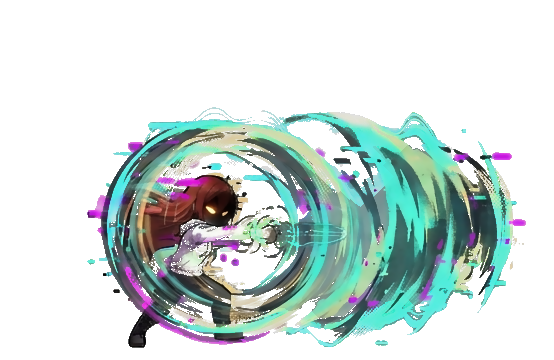
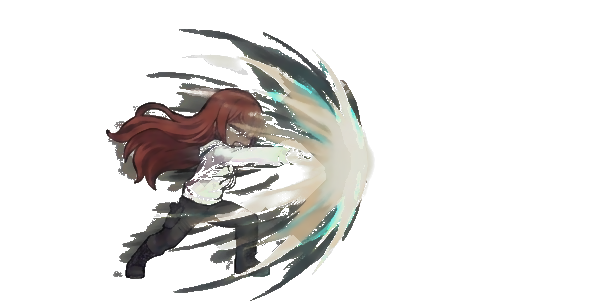
Remake the skill from the v7 sheet; slow it to 3.46s
The smoothest of the seven skill layouts, and measurably so. Taking the mean
pixel change between consecutive drawings, its average step is 82 against v6's
93, and only 2 of its 10 transitions are large where 4 of v6's 9 were. The
difference is where the drawings are spent: v6 crossed its whole vortex section
in a run of big jumps, while v7 spends four drawings climbing into the peak and
six coming down. Smoothness is the evenness of the step, not the count.

It is also the first skill sheet that needs no reordering — its effect runs
none, glitch, orb, vortex, peak, wake, trail, none, none straight down the
reading order, where the last three all had a bare pose sitting mid-effect.

3.46s, against v6's 2.17s. The skill had got shorter with every sheet — 5.45,
3.75, 2.67, 2.25, 2.17 — and had run past deliberate into hurried. The peak now
holds 0.58s on its own.

Grain filter swept as before: 10 takes 19% for no measurable loss of line work
(100.2%), 14 starts cutting into the drawing (94%). Verified on the built
frames — nothing touches the canvas edge, and the WebP is bit-exact.

Claude-Session: https://claude.ai/code/session_01XCAHaMPqESAQXvPvCfgGMQ

diff --git a/README.md b/README.md
@@ -18,7 +18,7 @@ sheet lands, at which point the same two commands rebuild them.
 | **spin combo** | `assets/dahlia_attack_a_sheet.png`, 12 drawings | `out/dahlia_attack_spin/` — 47 frames, 2.35 s |
 | **ranged attack** | `assets/dahlia_ranged_v4_sheet.png`, 12 drawings | `out/dahlia_ranged/` — 56 frames, 2.33 s |
 | **soul attack** | `assets/dahlia_soul_sheet.png`, 16 drawings | `out/dahlia_soul/` — 64 frames, 2.67 s |
-| **skill / special** | `assets/dahlia_skill_v6_sheet.png`, 10 drawings | `out/dahlia_skill/` — 52 frames, 2.17 s |
+| **skill / special** | `assets/dahlia_skill_v7_sheet.png`, 11 drawings | `out/dahlia_skill/` — 83 frames, 3.46 s |
 | **block** | `assets/dahlia_block_v2_sheet.png`, 8 drawings | `out/dahlia_block/` — 44 frames, 2.2 s |
 | **counter** | `assets/dahlia_counter_v2_sheet.png`, 10 drawings | `out/dahlia_counter/` — 67 frames, 3.35 s |
 | **evasion** | `assets/dahlia_dodge_v2_sheet.png`, 13 drawings | `out/dahlia_dodge/` — 56 frames, 2.8 s |
@@ -726,7 +726,7 @@ large: measuring Dahlia's own height in the finished frames,
 | `dahlia_block_v2_sheet.png` | 8 | 343 px |
 | `dahlia_attack_b_sheet.png` | 8 | 342 px |
 | … | | |
-| `dahlia_skill_v6_sheet.png` | 10 | 207 px |
+| `dahlia_skill_v7_sheet.png` | 11 | 209 px |
 | `dahlia_soul_sheet.png` | 16 | 167 px |
 | `dahlia_ragdoll_b_sheet.png` | 27 | 154 px |
 
@@ -741,8 +741,8 @@ smoother. Two things help. Exporting a dense sheet larger — a 25-pose sheet ne
 about 2.3× the width and height of an 8-pose one to hold the same detail. And
 drawing fewer poses on the same sheet, which is the same trade seen from the
 other side: the ranged animation went from 22 drawings to 12 and Dahlia grew
-from 169 px to 265, and the skill went 25 → 14 → 9 → 10 drawings while she
-went 157 → 175 → 209 → 207 px. Both read better for it, so the extra drawings were not
+from 169 px to 265, and the skill went 25 → 14 → 9 → 10 → 11 drawings while
+she went 157 → 175 → 209 → 207 → 209 px. Both read better for it, so the extra drawings were not
 buying much.
 
 In the meantime the sheets whose sprites come out under 200 px get a stronger
@@ -767,7 +767,7 @@ Above 100% is not a measurement error: flattening the noise *around* an edge
 raises that edge's measured contrast against its surroundings, so a correctly
 tuned bilateral filter leaves the drawing crisper rather than softer. The cliff
 is where it starts eating the drawing instead — everything past 10 on this
-sheet, where the earlier grainier sheets take 14.
+sheet and on v7, where the earlier grainier sheets take 14.
 
 ### `--denoise` was doing nothing at all
 
@@ -821,16 +821,34 @@ measured rather than guessed.
 
 ## An effect that blinks off for a beat
 
-The skill sheet's pose 4 carries no effect at all, and in reading order it falls
-between the thrust and the vortex — so the effect switches off for a beat and
-back on, which reads as a dropped frame rather than as an attack. Moved to the
-end of the cooldown, the whole clip fades monotonically instead: orb, vortex,
-peak, fading, wisps, faint wisps, nothing, ready.
+Three skill sheets in a row had a pose carrying no effect at all sitting in the
+middle of the effect's run — on v6, pose 4 fell between the thrust and the
+vortex, so the energy switched off for a beat and back on, which reads as a
+dropped frame rather than as an attack. Each was fixed by moving that pose into
+the cooldown, where it becomes part of the fade.
 
-Three skill sheets in a row have had this same defect in three different places,
-so it is worth checking on any sheet where the effect is drawn as a layer over
-the pose. Reading order is where the drawings sit, not necessarily the order
-they play in.
+`dahlia_skill_v7_sheet.png` is the first that needs no reordering: its effect
+runs none, glitch, orb, vortex, peak, wake, trail, none, none, straight down the
+reading order. Worth checking on any sheet where the effect is drawn as a layer
+over the pose — reading order is where the drawings sit, not necessarily the
+order they play in.
+
+## What actually makes a clip smooth
+
+Not the number of drawings — the *evenness* of the step between them. Measured
+as the mean pixel change from each drawing to the next:
+
+| | drawings | mean step | large steps |
+| --- | --- | --- | --- |
+| v6 | 10 | 93 | 4 of 9 |
+| v7 | 11 | 82 | 2 of 10 |
+
+One extra drawing, but a 12% smaller average step and half as many big jumps.
+The difference is where the drawings were spent: v6 crossed its whole vortex
+section in a run of four large steps, where v7 spends four drawings climbing
+into the peak and six coming down. A sheet with more poses concentrated in the
+part that moves fastest will always read smoother than one that spreads them
+evenly, and this is the measurement that shows it before anything is built.
 
 ## Slicing a sheet
 
